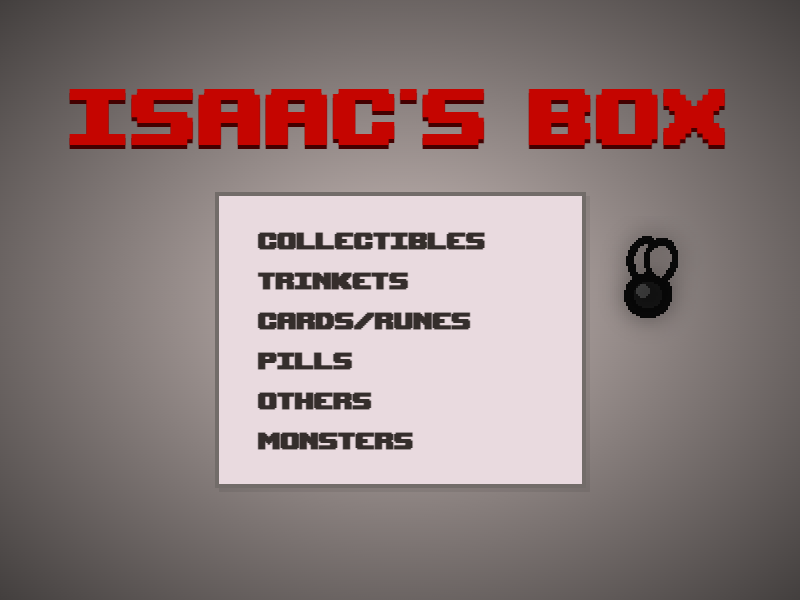
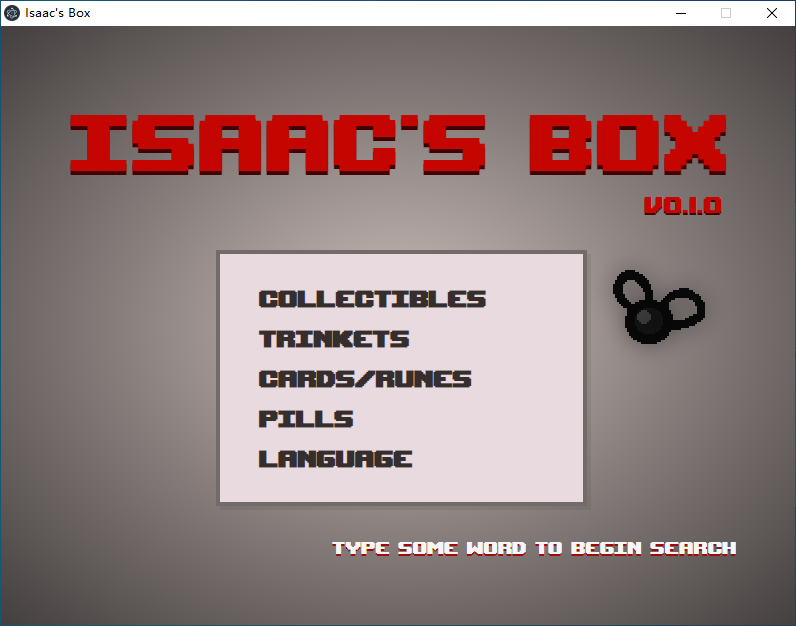
更新文档与图片

diff --git a/README.md b/README.md
@@ -8,8 +8,7 @@
 + 饰品生成(包含金色饰品)
 + 卡牌/符文生成
 + 给予药丸/大药丸
-+ 生成其他实体
-+ 生成怪物
++ 全局搜索
 
 ## 使用方法
 1. 于github上或创意工坊下载IsaacSocket Mod 并存放Mod于游戏安装目录的mod目录下
@@ -23,7 +22,7 @@ https://github.com/LanbingIce/IsaacSocket-Utility
 
 ## 遇到问题
 + 参考https://github.com/LanbingIce/IsaacSocket-Mod 文档
-+ 更换梯子,确保electron正确安装
++ 更换梯子,开发环境则确保electron正确安装
 + 或者提issue
 
 ## 项目使用
@@ -33,5 +32,4 @@ https://github.com/LanbingIce/IsaacSocket-Utility
 + yarn start:生成静态网页并运行electron 模拟真实使用环境 调试WebSocket用这个
 + yarn make:打包生成用户可以一键运行的安装包
 ## 待开发功能
-+ 全局搜索
 + DEBUG MODE SWITCH
